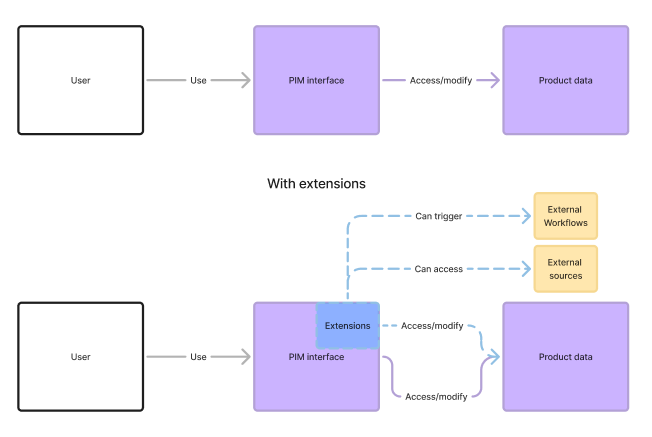
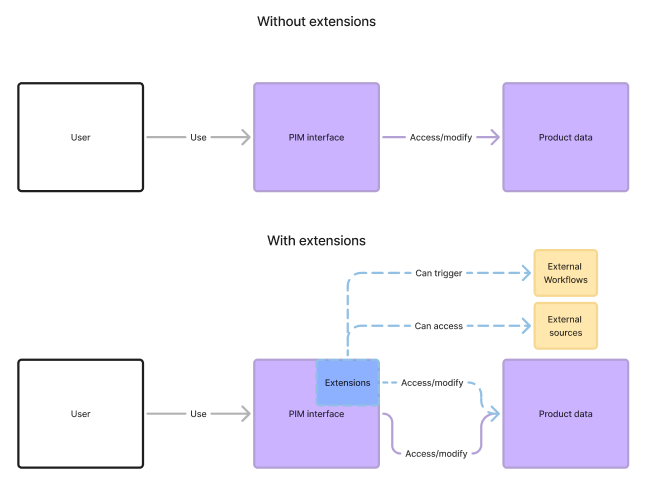
add in depth schema

diff --git a/content/advanced-extensions/sdk-in-depth.md b/content/advanced-extensions/sdk-in-depth.md
@@ -18,6 +18,8 @@ When developing with the SDK, keep these constraints in mind:
 - **Global State**: The sandbox isolates your code from affecting the global state of the PIM application.
 - **Resources**: Your script should be efficient as it runs within the PIM application context.
 
+[![indepth_custom_extension.png](../img/extensions/ui-extensions/indepth_custom_extension.png)](../img/extensions/ui-extensions/indepth_custom_extension.png)
+
 ## Permissions and Access Control
 
 The SDK operates under the permissions of the currently logged-in user. This means:
